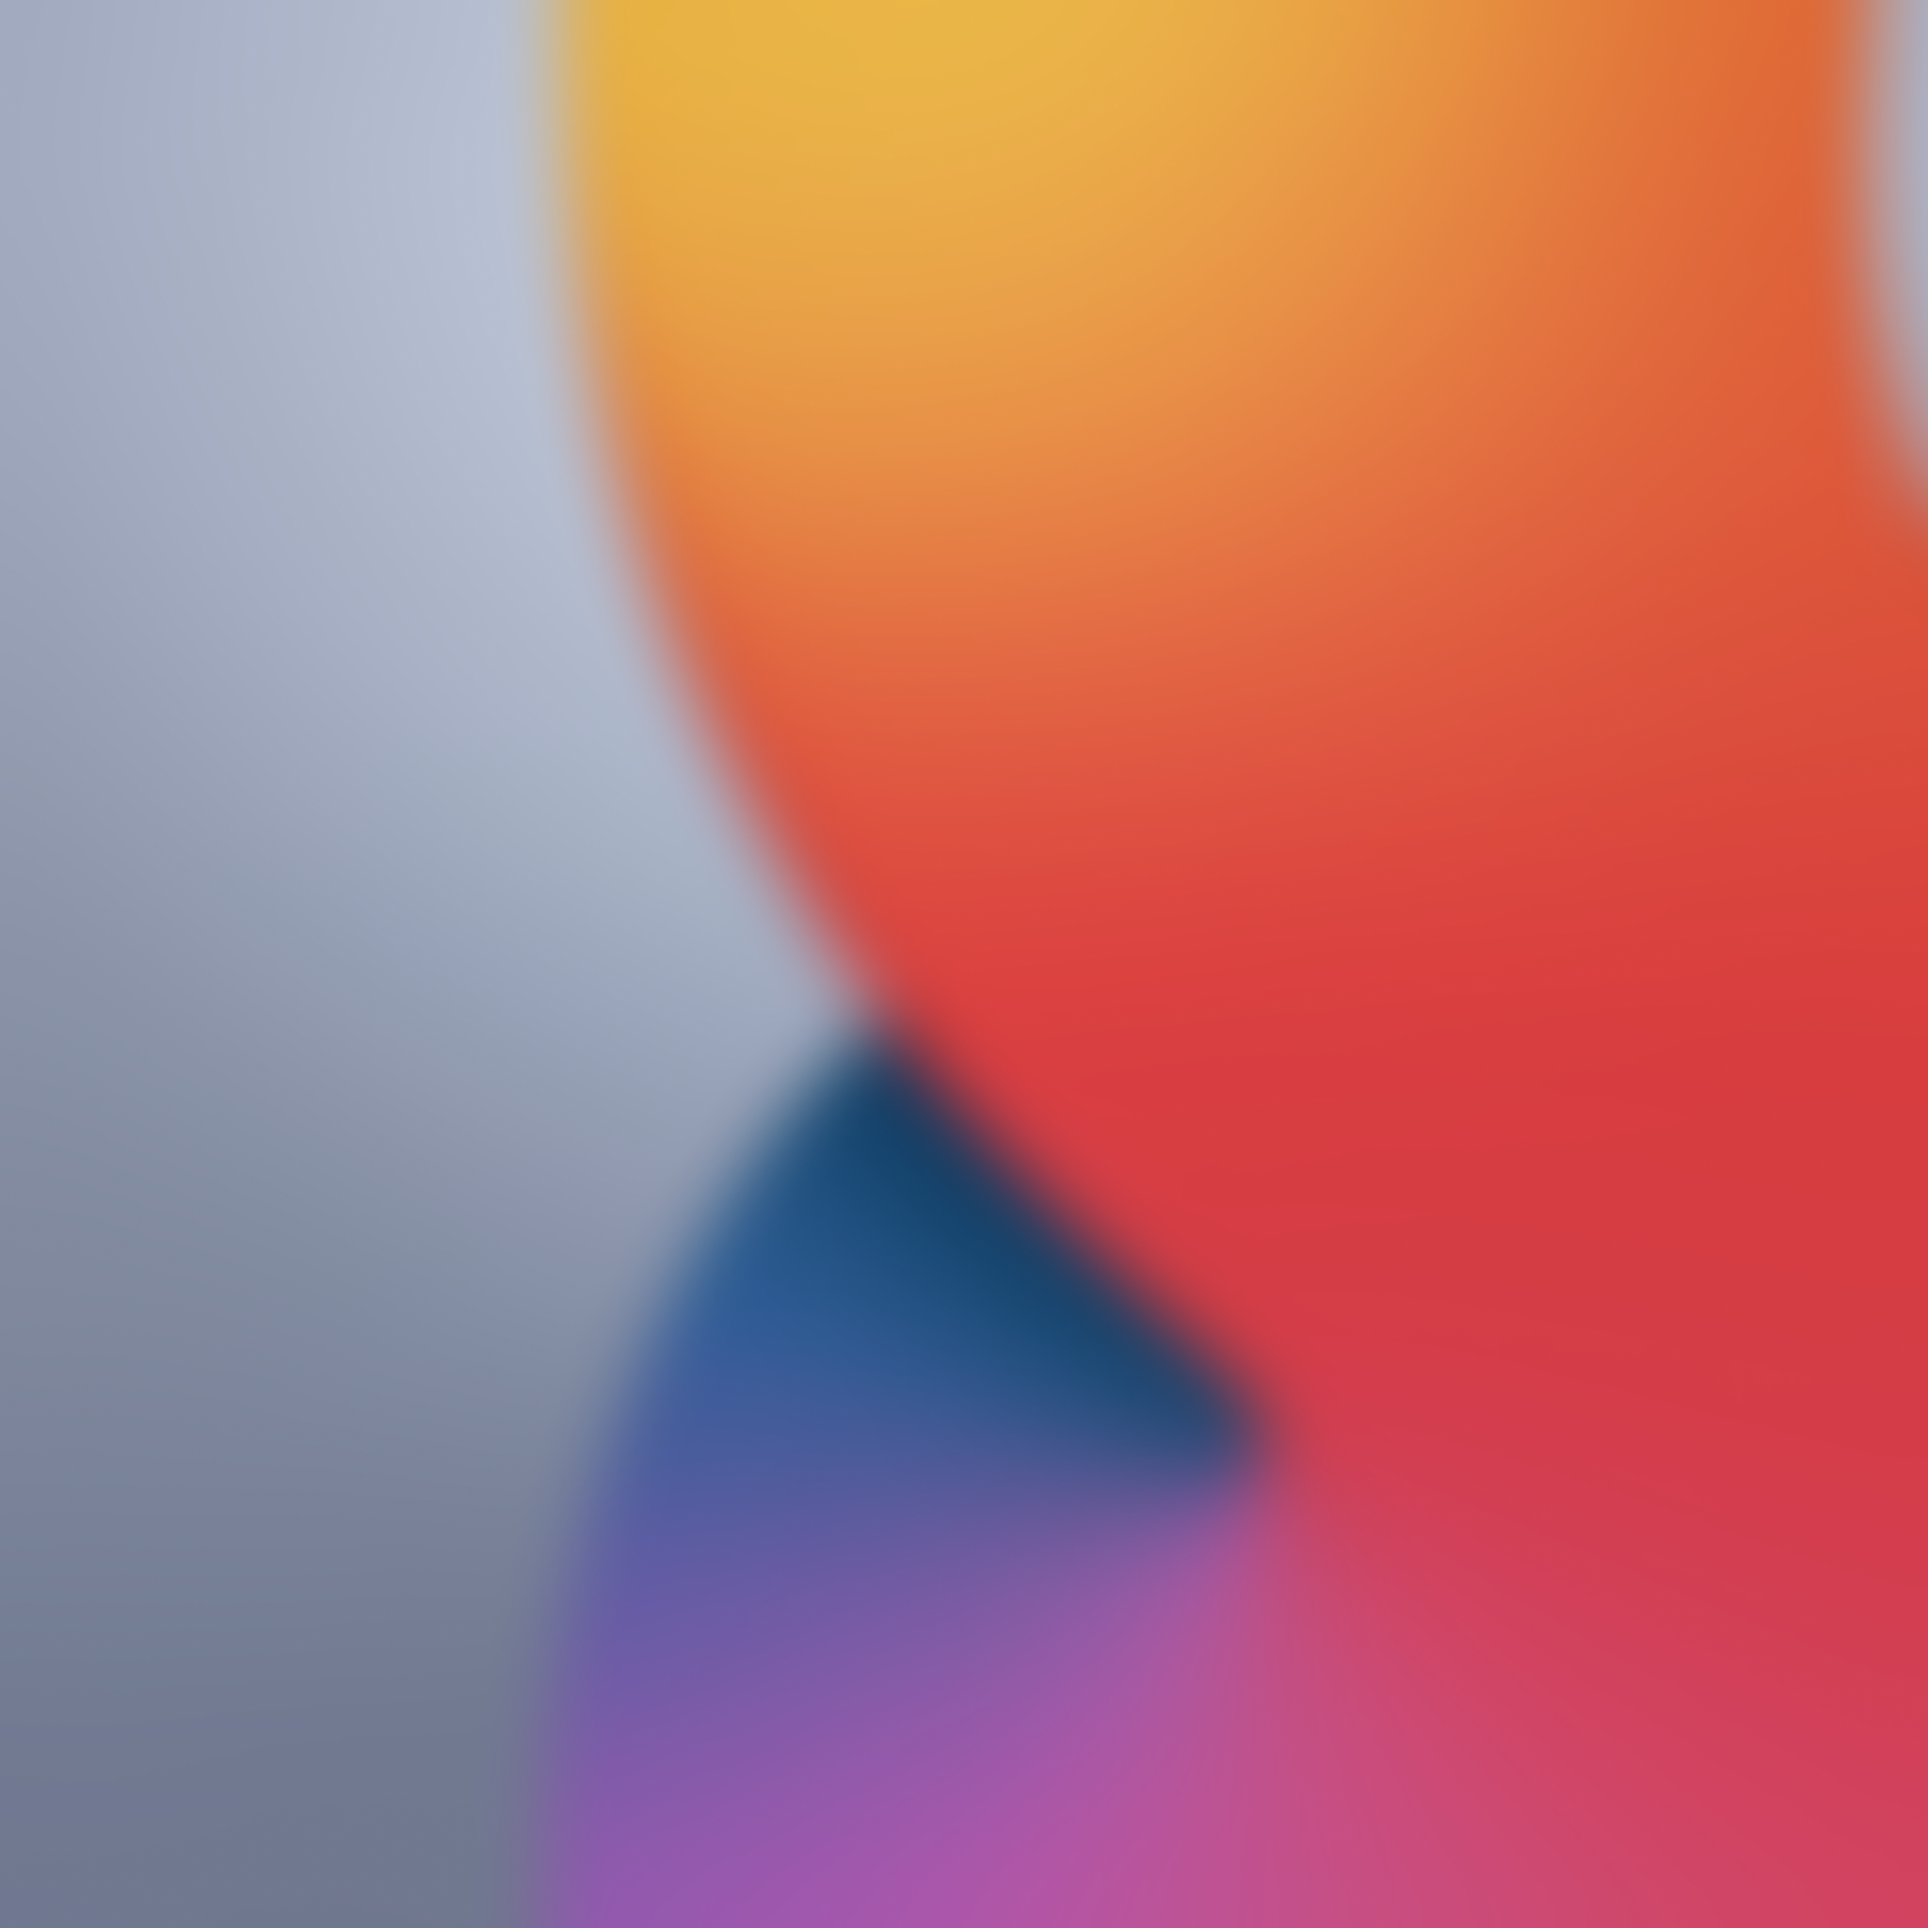
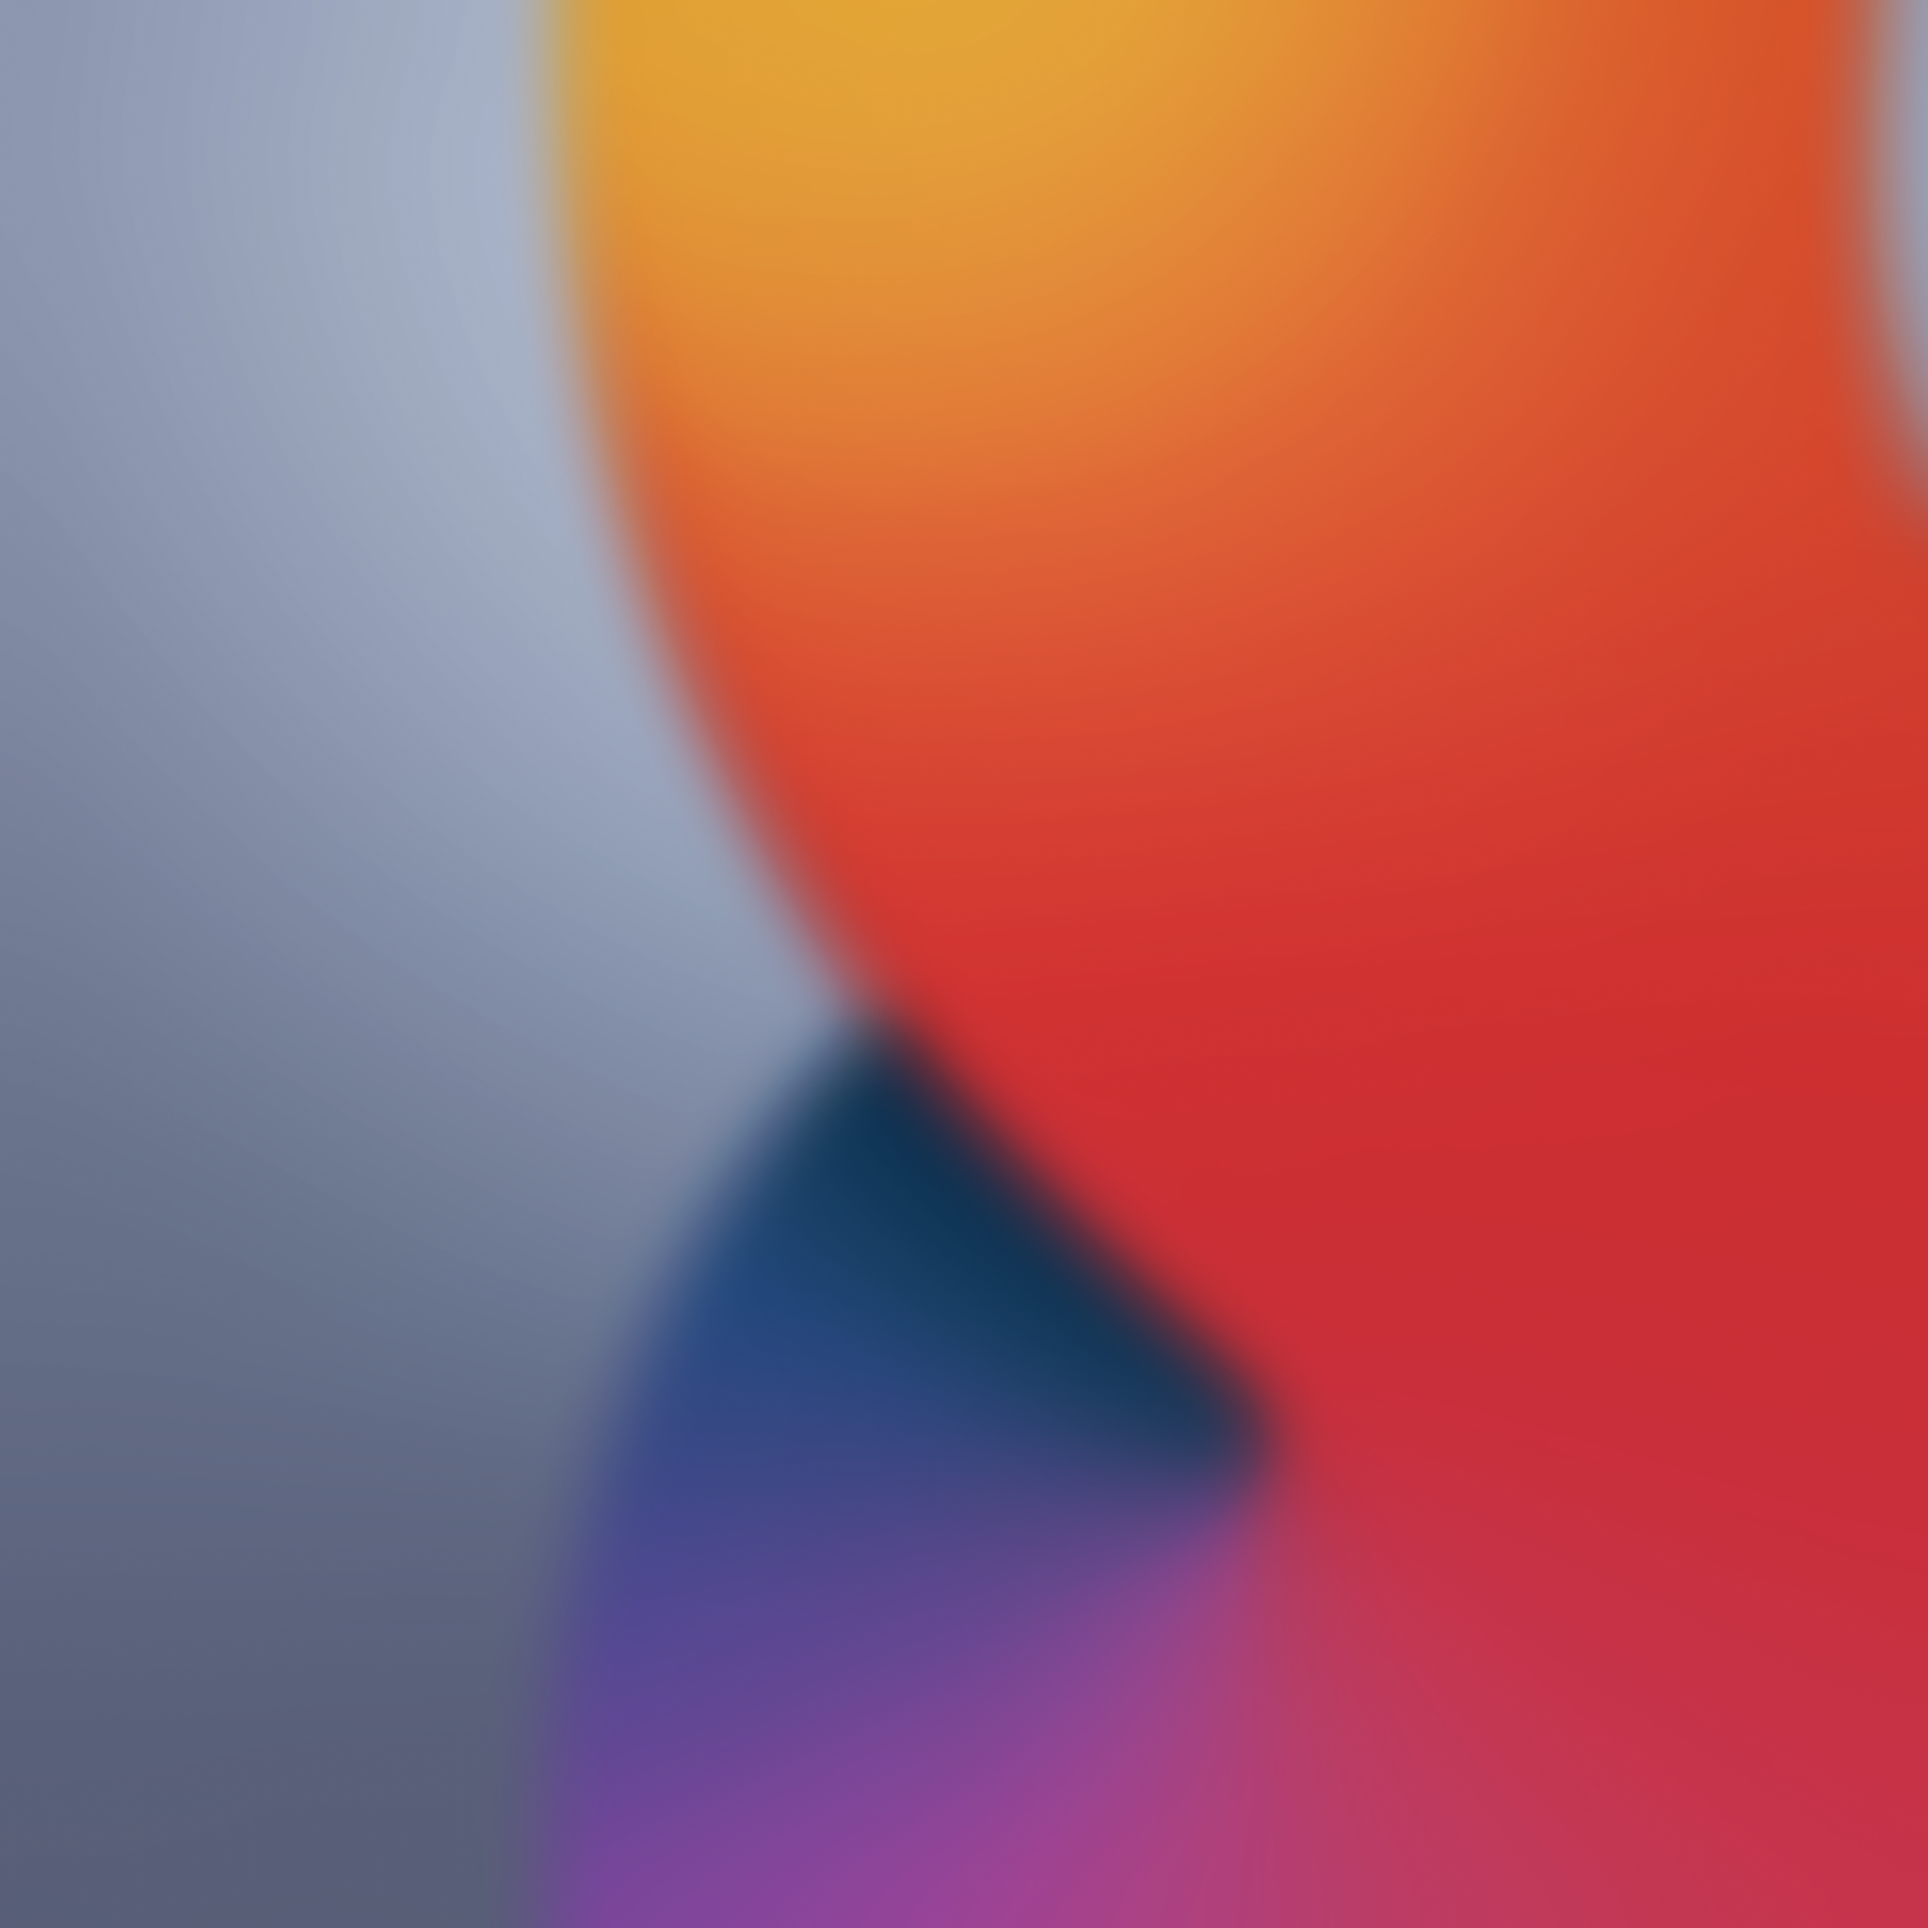
Response and backround blur

Changed region(s): [[0.0, 0.0, 0.875, 1.0], [0.9375, 0.0, 1.0, 0.25]]

diff --git a/src/views/Home.vue b/src/views/Home.vue
@@ -1,12 +1,33 @@
 <template>
-  <div class="home">
-    <transition name="transcript" appear>
+  <div
+   class="home"
+   :style="{ backgroundImage: homeBackgroundImage }"
+  >
+    <transition name="response" appear>
       <Motion
-       :value="offset"
+       :value="offsetResponse"
        tag="div"
        spring="gentle"
        data-cursor-hover >
         <v-squircle
+         class="responses"
+         radius="20px"
+         padding="12px"
+         v-if="offsetResponse != -70"
+         slot-scope="props"
+         :style="{ transform: `translateY(${props.value}px)` }" >
+          Hello.
+        </v-squircle>
+      </Motion>
+    </transition>
+    <transition name="transcript" appear>
+      <Motion
+       :value="offsetTranscript"
+       tag="div"
+       spring="gentle"
+       data-cursor-hover >
+        <v-squircle
+         class="transcripts"
          radius="20px"
          padding="12px"
          v-if="wake"
@@ -32,7 +53,9 @@
       return {
         wake: false,
         waves: [0,0,0,0,0],
-        offset: 70,
+        offsetTranscript: 70,
+        offsetResponse: -70,
+        homeBackgroundImage: "var(--img-background)",
         audioContext: null,
         mediaStreamSource: null,
         meter: null,
@@ -98,7 +121,8 @@
       window.addEventListener('message', function(event) {
         if (event.data == "wake") {
           _this.wake = true;
-          _this.offset = 0;
+          _this.offsetTranscript = 0;
+          _this.homeBackgroundImage = "var(--img-background--blurred)";
           _this.beginDetect();
           let counter = 0;
           _this.waveMover = setInterval(function(){
@@ -115,6 +139,7 @@
           }, 30);
         }
         else if (event.data == "sleep") {
+          _this.offsetResponse = 0;
           clearInterval(_this.waveMover);
           _this.waves = [0,0,0,0,0];
         }
@@ -124,6 +149,14 @@
 </script>
 
 <style scoped>
+.home {
+  transition: background-image .3s var(--cubic-ease);
+  background-size: 120vh;
+  background-position: center;
+  min-height: 100%;
+  min-width: 100%;
+}
+
 button {
   margin: 50px;
 }
@@ -136,14 +169,33 @@ button {
   background-color: hsla(0,100%,100%,0.8);
 }
 
+.transcripts {
+  bottom: 80px;
+}
+
+.transcripts >>> .v-squircle--slot {
+  background-position-y: bottom;
+}
+
+.responses {
+  top: 80px;
+}
+
+.responses >>> .v-squircle--slot {
+  background-position-y: top;
+}
 
 .transcript-enter-active,
-.transcript-leave-active {
-  transition: opacity 0.4s linear;
+.transcript-leave-active,
+.response-enter-active,
+.response-leave-active {
+  transition: opacity .4s linear;
 }
 
 .transcript-enter,
-.transcript-leave-to {
+.transcript-leave-to,
+.response-enter,
+.response-leave-to {
   opacity: 0;
 }
 </style>

diff --git a/src/App.vue b/src/App.vue
@@ -141,11 +141,6 @@ html {
   box-sizing: border-box;
   -webkit-text-size-adjust:100%;
   /* quotes: "“" "”"; */
-  background-image: var(--img-background);
-  background-size: cover;
-  background-position: center;
-  min-height: 100%;
-  min-width: 100%;
   overflow: hidden;
 }
 
@@ -257,12 +252,11 @@ a:active {
   padding: 0px 8px;
   position: absolute;
   width: 100%;
-  bottom: 34px;
 }
 
 .v-squircle--segment, .v-squircle--filler {
   background-color: var(--color-background-blurred);
-  backdrop-filter: saturate(180%) blur(20px);
+  /* backdrop-filter: saturate(180%) blur(20px); */
 }
 .v-squircle--slot {
   z-index: 100;
@@ -270,8 +264,8 @@ a:active {
   background-image: var(--img-background--text);
   background-size: 750px;
   background-position-x: center;
-  background-position-y: bottom;
   background-clip: text;
+  min-height: 42px;
   /* color: hsla(0,0%,100%,0.2); */
   color: transparent;
 }
